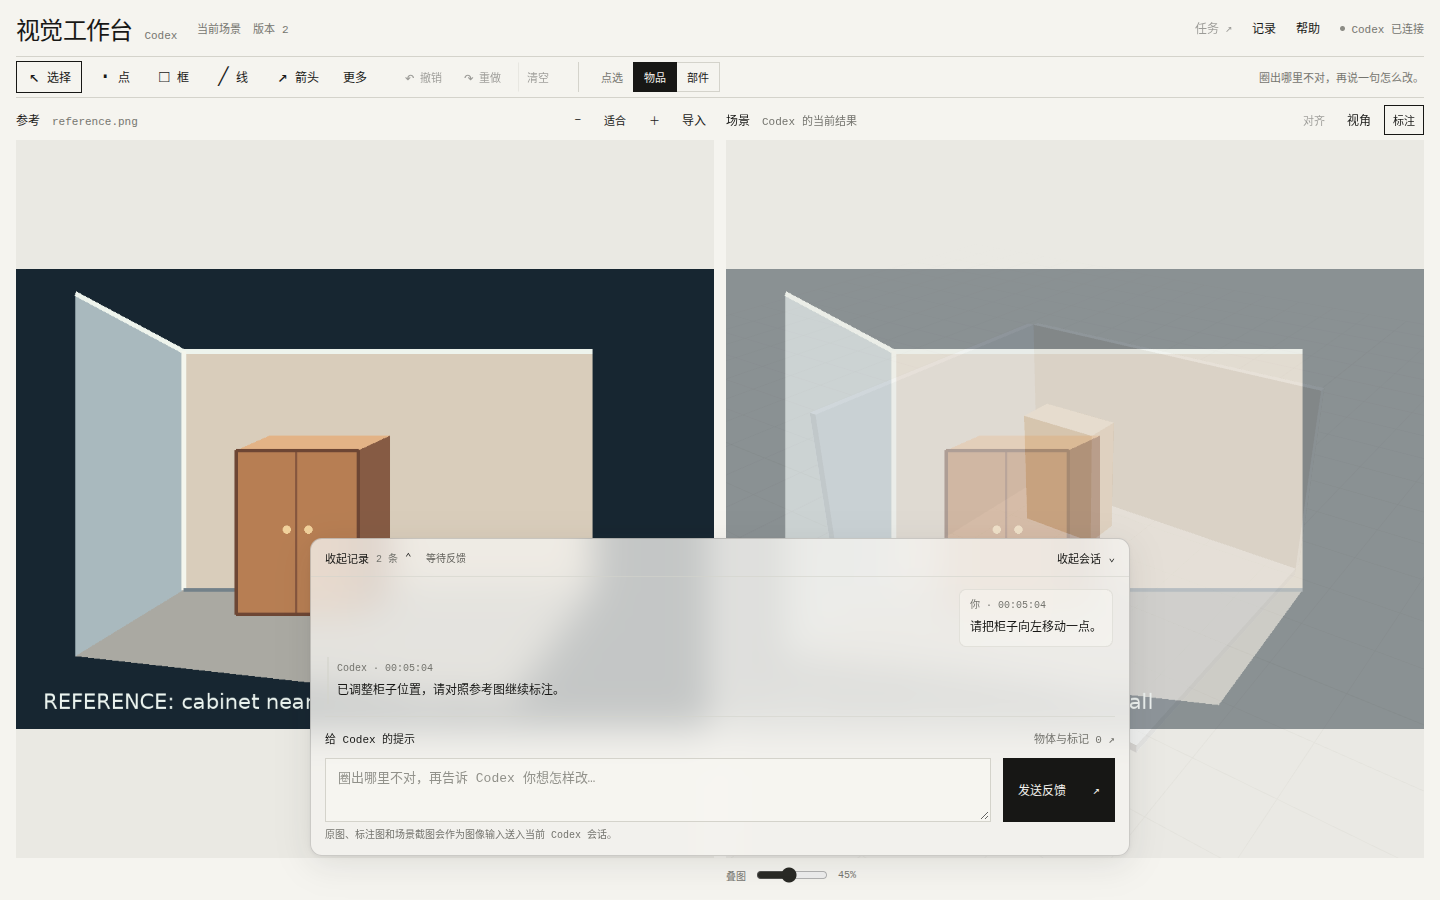
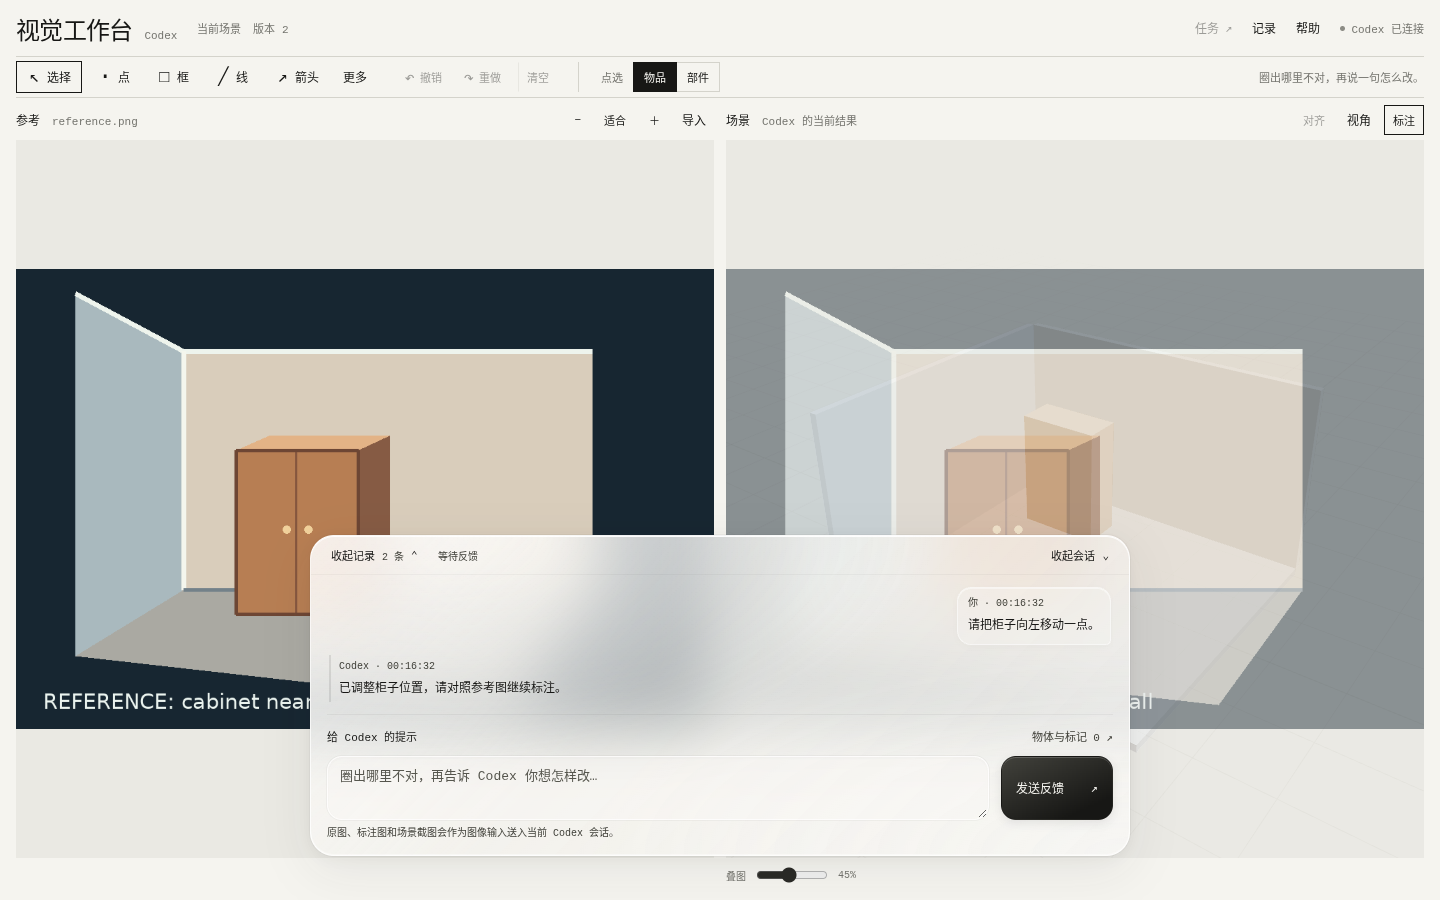
Soften chat dock with layered glass highlights

diff --git a/web/styles.css b/web/styles.css
@@ -139,32 +139,37 @@ input[type=range] { accent-color: #292925; }
 .moment-card button { padding: 3px 5px; color: var(--muted); font-size: 10px; }
 .moment-card.active button { color: var(--ink); }
 /* The dock floats over the workspace, so toggling it never resizes the views. */
-.feedback-panel { position: fixed; z-index: 30; left: 50%; bottom: 44px; transform: translateX(-50%); width: min(820px, calc(100vw - 48px)); min-width: 0; max-height: calc(100dvh - 154px); display: flex; flex-direction: column; border: 1px solid #1717152e; border-radius: 12px; background: #f5f4eff5; box-shadow: 0 8px 32px #1717151a, 0 1px 3px #1717150d; }
-.chat-dock-header { display: flex; align-items: center; gap: 12px; flex: none; min-height: 38px; padding: 3px 12px; border-bottom: 1px solid #d4d3cb99; }
-.chat-history-toggle, .chat-collapse { display: inline-flex; align-items: center; gap: 7px; min-height: 30px; padding: 3px 2px; font-size: 11px; white-space: nowrap; }
-.chat-history-toggle:hover, .chat-collapse:hover { text-decoration: underline; text-underline-offset: 4px; }
+.feedback-panel { position: fixed; z-index: 30; left: 50%; bottom: 44px; transform: translateX(-50%); width: min(820px, calc(100vw - 48px)); min-width: 0; max-height: calc(100dvh - 154px); display: flex; flex-direction: column; border-radius: 24px; }
+/* A warm glass surface: diffuse backdrop, broad highlights and a fine lit edge.
+   The opaque base also works when backdrop filters are unavailable. */
+.feedback-panel, .chat-launcher { --glass-fill: #f5f4eff5; --muted: #404039; isolation: isolate; border: 1px solid #ffffffc7; background: linear-gradient(135deg, #ffffff8c 0%, #ffffff24 42%, #ffffff47 100%), var(--glass-fill); box-shadow: 0 14px 48px #17171514, 0 3px 12px #1717150a, 0 0 0 1px #1717150a, inset 0 1px 0 #fffffff2, inset 0 -1px 0 #ffffff66; }
+.feedback-panel::before, .chat-launcher::before { content: ""; position: absolute; z-index: -1; inset: 0; border-radius: inherit; pointer-events: none; background: radial-gradient(ellipse at 10% 0%, #ffffff66, transparent 52%), radial-gradient(ellipse at 100% 100%, #ffffff2b, transparent 48%); }
+.chat-dock-header { display: flex; align-items: center; gap: 12px; flex: none; min-height: 38px; padding: 4px 12px; border-bottom: 1px solid #1717150a; }
+.chat-history-toggle, .chat-collapse { display: inline-flex; align-items: center; gap: 7px; min-height: 30px; padding: 3px 8px; border-radius: 14px; font-size: 11px; white-space: nowrap; transition: background .16s, box-shadow .16s; }
+.chat-history-toggle:hover, .chat-collapse:hover { background: #ffffff57; box-shadow: inset 0 1px 0 #ffffff80; }
 .chat-history-toggle[aria-expanded=false] > [aria-hidden] { transform: rotate(180deg); }
 .chat-message-count.has-unread { color: var(--ink); }
 .chat-message-count { color: var(--muted); font-size: 10px; font-variant-numeric: tabular-nums; }
 .chat-collapse { margin-left: auto; }
-.chat-status { color: #62625c; min-width: 0; overflow: hidden; text-overflow: ellipsis; white-space: nowrap; font-size: 10px; }
+.chat-status { color: var(--muted); min-width: 0; overflow: hidden; text-overflow: ellipsis; white-space: nowrap; font-size: 10px; }
 .chat-status.running, .chat-status.queued { color: var(--ink); }
 .chat-status.error { color: #923f32; }
-#chat-dock-body { min-height: 0; padding: 0 14px 12px; overflow-y: auto; scrollbar-width: thin; }
-.chat-history { position: relative; margin-bottom: 6px; border-bottom: 1px solid #d4d3cb99; }
-.chat-latest { position: absolute; bottom: 8px; left: 50%; transform: translateX(-50%); max-width: calc(100% - 16px); padding: 6px 10px; border: 1px solid var(--line); border-radius: 16px; background: var(--paper); box-shadow: 0 2px 8px #17171514; font-size: 10px; white-space: nowrap; }
-.chat-launcher { position: fixed; z-index: 30; right: 16px; bottom: 44px; display: inline-flex; align-items: center; gap: 9px; min-height: 42px; padding: 10px 14px; border: 1px solid #1717152e; border-radius: 10px; background: #f5f4eff5; box-shadow: 0 4px 18px #17171514; font-size: 12px; }
-.chat-launcher:hover { border-color: var(--muted); }
+#chat-dock-body { min-height: 0; padding: 0 16px 14px; border-radius: 0 0 23px 23px; overflow-y: auto; scrollbar-width: thin; }
+.chat-history { position: relative; margin-bottom: 6px; border-bottom: 1px solid #1717150d; }
+.chat-latest { position: absolute; bottom: 8px; left: 50%; transform: translateX(-50%); max-width: calc(100% - 16px); padding: 6px 10px; border: 1px solid #ffffffcc; border-radius: 16px; background: #f5f4eff2; box-shadow: 0 3px 12px #17171514, 0 0 0 1px #1717150a; font-size: 10px; white-space: nowrap; }
+.chat-launcher { position: fixed; z-index: 30; right: 16px; bottom: 44px; display: inline-flex; align-items: center; gap: 9px; min-height: 42px; padding: 10px 14px; border-radius: 24px; font-size: 12px; transition: box-shadow .16s, border-color .16s; }
+.chat-launcher:hover { border-color: #fff; box-shadow: 0 12px 32px #1717151a, 0 0 0 1px #1717150d, inset 0 1px 0 #fff; }
 .chat-launcher.has-attention { border-color: #923f32; }
 .chat-launcher svg { flex: none; width: 18px; height: 18px; }
 .chat-unread-count { display: inline-grid; place-items: center; min-width: 18px; height: 18px; padding: 0 4px; border-radius: 9px; color: var(--paper); background: var(--ink); font-size: 10px; }
 .app-shell:has(.timeline-panel:not(.hidden)) .feedback-panel,
 .app-shell:has(.timeline-panel:not(.hidden)) .chat-launcher { bottom: 110px; }
 @supports ((backdrop-filter: blur(18px)) or (-webkit-backdrop-filter: blur(18px))) {
-  .feedback-panel, .chat-launcher { background: #f5f4efc7; -webkit-backdrop-filter: blur(18px); backdrop-filter: blur(18px); }
+  .feedback-panel, .chat-launcher { --glass-fill: #f5f4efa3; -webkit-backdrop-filter: blur(30px) saturate(1.25); backdrop-filter: blur(30px) saturate(1.25); }
 }
 @media (prefers-reduced-transparency: reduce) {
-  .feedback-panel, .chat-launcher { background: var(--paper); -webkit-backdrop-filter: none; backdrop-filter: none; }
+  .feedback-panel, .chat-launcher { background: var(--paper); border-color: var(--line); -webkit-backdrop-filter: none; backdrop-filter: none; }
+  .feedback-panel::before, .chat-launcher::before { display: none; }
 }
 .feedback-heading { display: flex; align-items: center; gap: 12px; min-height: 30px; margin: 4px 0 5px; }
 .section-label { font-size: 11px; font-weight: 400; }
@@ -181,11 +186,11 @@ input[type=range] { accent-color: #292925; }
 .selected-reference-insert { font-size: 10px; text-decoration: underline; text-underline-offset: 3px; }
 .composer { display: flex; align-items: flex-start; gap: 12px; }
 .prompt-field { min-width: 0; flex: 1; }
-#feedback-note { display: block; width: 100%; height: 64px; min-height: 54px; max-height: 160px; padding: 10px 12px; border: 1px solid var(--line); resize: vertical; font-size: 13px; line-height: 1.55; background: #faf9f566; }
-#feedback-note::placeholder { color: #91918a; }
-#feedback-note:focus { border-color: var(--ink); }
-.submit-button { display: flex; align-items: center; justify-content: space-between; gap: 18px; min-width: 112px; min-height: 64px; padding: 11px 14px; background: var(--ink); color: var(--paper); border: 1px solid var(--ink); font-size: 12px; margin-top: 0; }
-.submit-button:hover:not(:disabled) { box-shadow: 2px 2px 0 #b0b0a6; }
+#feedback-note { display: block; width: 100%; height: 64px; min-height: 54px; max-height: 160px; padding: 10px 12px; border: 1px solid #ffffffb3; border-radius: 15px; resize: vertical; font-size: 13px; line-height: 1.55; background: #faf9f570; box-shadow: inset 0 1px 3px #17171505, 0 0 0 1px #1717150a; transition: background .16s, box-shadow .16s; }
+#feedback-note::placeholder { color: #56564e; }
+#feedback-note:focus { border-color: #ffffffed; background: #faf9f5a6; box-shadow: 0 0 0 2px #17171526, inset 0 1px 0 #fff; outline: none; }
+.submit-button { display: flex; align-items: center; justify-content: space-between; gap: 18px; min-width: 112px; min-height: 64px; padding: 11px 14px; background: linear-gradient(155deg, #42423c, var(--ink) 80%); color: var(--paper); border: 1px solid #17171573; border-radius: 15px; box-shadow: inset 0 1px 0 #ffffff30, 0 3px 10px #17171518; font-size: 12px; margin-top: 0; transition: box-shadow .16s; }
+.submit-button:hover:not(:disabled) { box-shadow: inset 0 1px 0 #ffffff52, 0 5px 16px #17171526; }
 #submit-caption { margin: 6px 0 0; color: var(--muted); font-size: 10px; line-height: 1.5; overflow: hidden; text-overflow: ellipsis; white-space: nowrap; }
 dialog { color: var(--ink); background: var(--paper); border: 1px solid var(--ink); padding: 26px; max-width: min(650px, calc(100vw - 32px)); max-height: calc(100dvh - 48px); scrollbar-width: thin; }
 dialog::backdrop { background: #17171522; }
@@ -239,8 +244,8 @@ dialog::backdrop { background: #17171522; }
 .activity-chat-hint { margin-top: 20px; color: var(--muted); font-size: 11px; line-height: 1.7; }
 .conversation { display: flex; flex-direction: column; gap: 10px; padding: 12px 2px; max-height: min(22dvh, 190px); overflow-y: auto; overscroll-behavior: contain; scrollbar-width: thin; overflow-anchor: none; }
 .conversation > .muted { margin: 0; font-size: 11px; }
-.conversation-item { flex: none; padding: 3px 8px; border-left: 2px solid #d4d3cb99; font-size: 12px; line-height: 1.7; white-space: pre-wrap; overflow-wrap: anywhere; }
-.conversation-item.user { align-self: flex-end; max-width: 92%; padding: 7px 10px; border: 1px solid #d4d3cb88; border-radius: 7px; background: #faf9f566; }
+.conversation-item { flex: none; padding: 3px 8px; border-left: 2px solid #1717151a; font-size: 12px; line-height: 1.7; white-space: pre-wrap; overflow-wrap: anywhere; }
+.conversation-item.user { align-self: flex-end; max-width: 92%; padding: 7px 10px; border: 1px solid #ffffff80; border-radius: 14px 14px 5px 14px; background: #faf9f54d; box-shadow: inset 0 1px 0 #ffffff73, 0 2px 8px #17171505; }
 .conversation-item small { display: block; color: var(--muted); font-size: 10px; margin-bottom: 4px; }
 .conversation-item.error { color: #923f32; }
 .object-section { padding: 18px 0; border-bottom: 1px solid var(--line); }
@@ -324,7 +329,8 @@ dialog::backdrop { background: #17171522; }
   .chat-launcher { right: 12px; bottom: max(10px, env(safe-area-inset-bottom)); }
   .app-shell:has(.timeline-panel:not(.hidden)) .feedback-panel,
   .app-shell:has(.timeline-panel:not(.hidden)) .chat-launcher { bottom: max(10px, env(safe-area-inset-bottom)); }
-  .chat-dock-header { gap: 8px; padding: 3px 10px; }
+  .chat-dock-header { gap: 6px; padding: 4px 8px; }
+  .chat-history-toggle, .chat-collapse { gap: 5px; padding-left: 5px; padding-right: 5px; }
   #chat-dock-body { padding: 0 10px 10px; }
   .conversation { max-height: 24dvh; }
   .timeline-options { margin-left: auto; }

diff --git a/README.en.md b/README.en.md
@@ -27,7 +27,7 @@ This interface helps people point out problems. It does not define a reconstruct
 
 ## Page layout and navigation
 
-The page retains its warm off-white background and black or gray controls. Compact headers and margins give the side-by-side reference and scene more room. A translucent glass conversation dock floats at the bottom; task, activity, and reference panels open when needed.
+The page retains its warm off-white background and black or gray controls. Compact headers and margins give the side-by-side reference and scene more room. A translucent glass conversation dock with soft highlights and rounded edges floats at the bottom; task, activity, and reference panels open when needed.
 
 | Control | Purpose |
 | --- | --- |

diff --git a/README.md b/README.md
@@ -27,7 +27,7 @@
 
 ## 页面布局与入口
 
-页面保留暖白底色和黑灰控件。宽屏下，参考图与场景并排占据主要空间；顶部工具栏和边距更紧凑，底部是半透明玻璃会话浮层。任务、执行记录和引用面板按需打开。
+页面保留暖白底色和黑灰控件。宽屏下，参考图与场景并排占据主要空间；顶部工具栏和边距更紧凑，底部是带柔光高光、圆润边缘的半透明玻璃会话浮层。任务、执行记录和引用面板按需打开。
 
 | 入口 | 用途 |
 | --- | --- |
